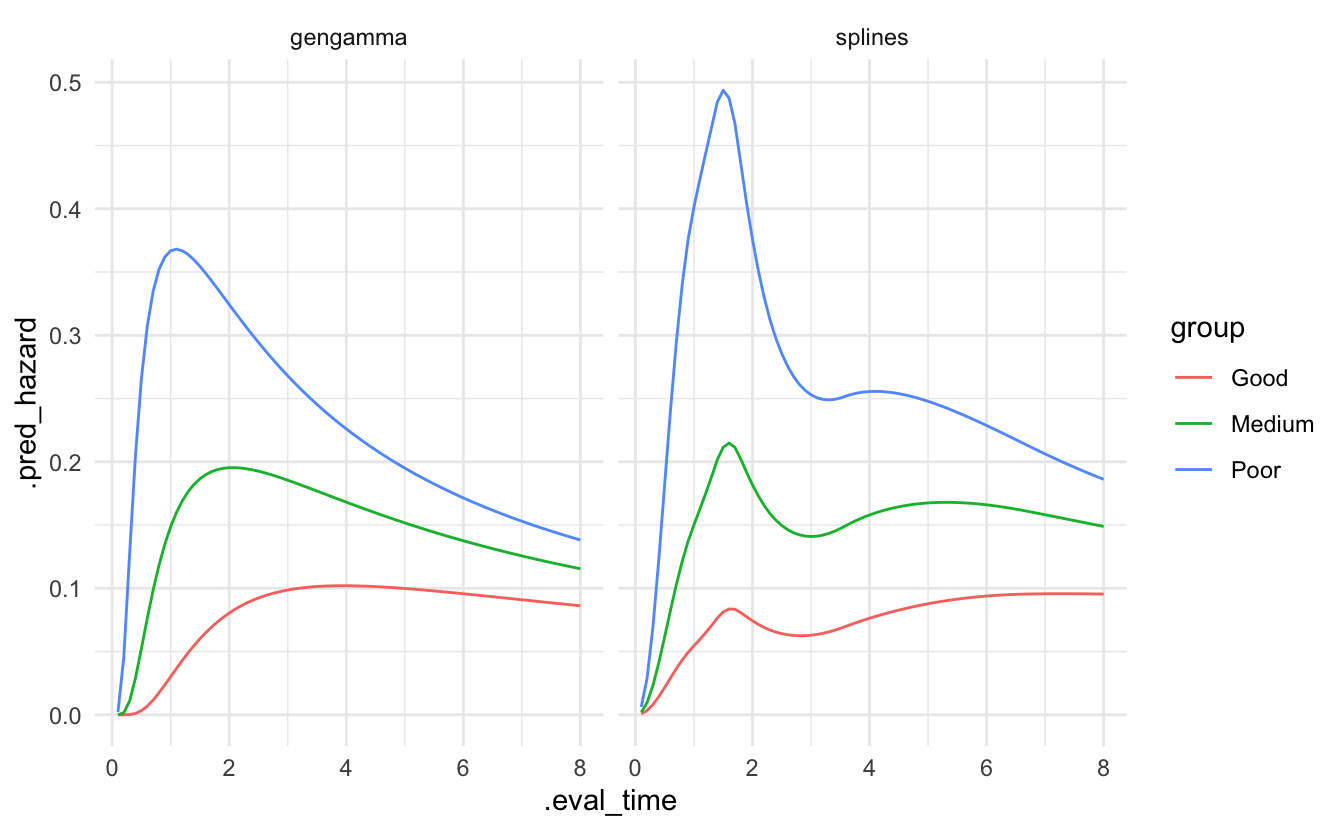
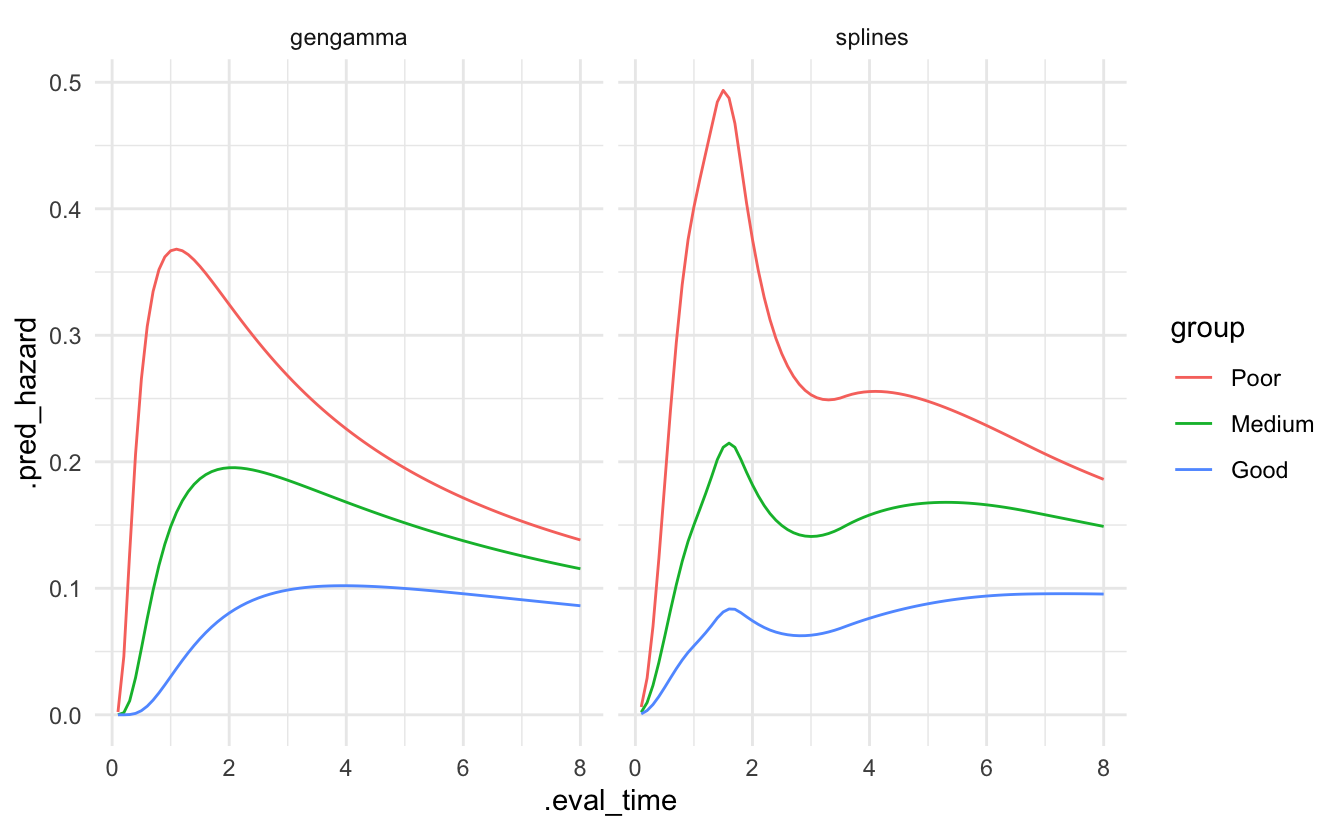
suggestions from review

diff --git a/content/blog/censored-0-2-0/index.md b/content/blog/censored-0-2-0/index.md
@@ -16,7 +16,7 @@ photo:
 # one of: "deep-dive", "learn", "package", "programming", "roundup", or "other"
 categories: [package] 
 tags: [tidymodels, parsnip, censored]
-rmd_hash: e70978e438f2e53f
+rmd_hash: c1360eb5c4d63da3
 
 ---
 
@@ -47,9 +47,9 @@ This blog post will introduce you to a new argument name, `eval_time`, and two n
 
 You can see a full list of changes in the [release notes](https://github.com/tidymodels/censored/releases/tag/v0.2.0).
 
-## Introducting `eval_time`
+## Introducing `eval_time`
 
-As we continue to add support for survival analysis across tidymodels, we have seen a need to be more explicit about which time we mean when we say "time": event time, observed time, censoring time, time at which to predict survival probability at? The last one is a particular mouthful. We now refer to this time as "evaluation time". In preparation for dynamic survival performance metrics which can be calculated at different evaluation time points, the argument to set these evaluation time points for [`predict()`](https://rdrr.io/r/stats/predict.html) is now called `eval_time` instead of just `time`.
+As we continue to add support for survival analysis across tidymodels, we have seen a need to be more explicit about which time we mean when we say "time": event time, observed time, censoring time, time at which to predict survival probability at? The last one is a particular mouthful. We now refer to this time as "evaluation time." In preparation for dynamic survival performance metrics which can be calculated at different evaluation time points, the argument to set these evaluation time points for [`predict()`](https://rdrr.io/r/stats/predict.html) is now called `eval_time` instead of just `time`.
 
 <div class="highlight">
 
@@ -92,9 +92,9 @@ censored contains engines for parametric, semi-parametric, and tree-based models
 
 ### New `"aorsf"` engine for `rand_forest()`
 
-This engine has been contributed by [Byron Jaeger](https://github.com/bcjaeger) and enables users to fit oblique random survival forests with the aorsf package. What's with the oblique you ask?
+This engine has been contributed by [Byron Jaeger](https://github.com/bcjaeger) and enables users to fit oblique random survival forests with the aorsf package. What's with the *oblique* you ask?
 
-Oblique describes how the decision trees that form the random forest make their splits at each node: If the split is based on a single predictor, the resulting tree is called *axis-based* because the split is perpendicular to the axis of the predictor. If the split is based on a linear combination of predictors, there is a lot more flexibility in how the data is split: the split does not need to be perpendicular to any of the predictor axes. Such trees are called *oblique*.
+Oblique describes how the decision trees that form the random forest make their splits at each node. If the split is based on a single predictor, the resulting tree is called *axis-based* because the split is perpendicular to the axis of the predictor. If the split is based on a linear combination of predictors, there is a lot more flexibility in how the data is split: the split does not need to be perpendicular to any of the predictor axes. Such trees are called *oblique*.
 
 The documentation for the [aorsf](https://docs.ropensci.org/aorsf) package includes a nice illustration of this with the splits for an axis-based tree on the left and an oblique tree on the right:
 
@@ -116,8 +116,8 @@ To fit such a model, set the engine for a random forest to `"aorsf"`:
 <span><span class='c'>#&gt; <span style='color: #555555;'># A tibble: 2 × 2</span></span></span>
 <span><span class='c'>#&gt;   .eval_time .pred_survival</span></span>
 <span><span class='c'>#&gt;        <span style='color: #555555; font-style: italic;'>&lt;dbl&gt;</span>          <span style='color: #555555; font-style: italic;'>&lt;dbl&gt;</span></span></span>
-<span><span class='c'>#&gt; <span style='color: #555555;'>1</span>        100          0.946</span></span>
-<span><span class='c'>#&gt; <span style='color: #555555;'>2</span>        500          0.339</span></span>
+<span><span class='c'>#&gt; <span style='color: #555555;'>1</span>        100          0.928</span></span>
+<span><span class='c'>#&gt; <span style='color: #555555;'>2</span>        500          0.368</span></span>
 <span></span></code></pre>
 
 </div>
@@ -150,7 +150,7 @@ For comparison, we also fit a parametric model without splines.
 
 </div>
 
-We can predict the hazard for the three levels of the prognostic `group`
+We can predict the hazard for the three levels of the prognostic `group`.
 
 <div class="highlight">
 
@@ -168,17 +168,18 @@ We can predict the hazard for the three levels of the prognostic `group`
 
 </div>
 
-and plot the predictions of both models which show a lot more flexibility for the splines model.
+Plotting the predictions of both models shows a lot more flexibility in the splines model.
 
 <div class="highlight">
 
 <pre class='chroma'><code class='language-r' data-lang='r'><span><span class='nf'>bind_rows</span><span class='o'>(</span><span class='nv'>pred_splines</span>, <span class='nv'>pred_gengamma</span><span class='o'>)</span> <span class='o'><a href='https://magrittr.tidyverse.org/reference/pipe.html'>%&gt;%</a></span> </span>
+<span>  <span class='nf'>mutate</span><span class='o'>(</span>group <span class='o'>=</span> <span class='nf'><a href='https://rdrr.io/r/base/factor.html'>factor</a></span><span class='o'>(</span><span class='nv'>group</span>, levels <span class='o'>=</span> <span class='nf'><a href='https://rdrr.io/r/base/c.html'>c</a></span><span class='o'>(</span><span class='s'>"Poor"</span>,<span class='s'>"Medium"</span>,<span class='s'>"Good"</span><span class='o'>)</span><span class='o'>)</span><span class='o'>)</span> <span class='o'>|&gt;</span> </span>
 <span>  <span class='nf'>tidyr</span><span class='nf'>::</span><span class='nf'><a href='https://tidyr.tidyverse.org/reference/unnest.html'>unnest</a></span><span class='o'>(</span>cols <span class='o'>=</span> <span class='nv'>.pred</span><span class='o'>)</span> <span class='o'>|&gt;</span> </span>
 <span>  <span class='nf'>ggplot</span><span class='o'>(</span><span class='o'>)</span> <span class='o'>+</span></span>
 <span>  <span class='nf'>geom_line</span><span class='o'>(</span><span class='nf'>aes</span><span class='o'>(</span>x <span class='o'>=</span> <span class='nv'>.eval_time</span>, y <span class='o'>=</span> <span class='nv'>.pred_hazard</span>, group <span class='o'>=</span> <span class='nv'>group</span>, col <span class='o'>=</span> <span class='nv'>group</span><span class='o'>)</span><span class='o'>)</span> <span class='o'>+</span></span>
 <span>  <span class='nf'>facet_wrap</span><span class='o'>(</span><span class='o'>~</span> <span class='nv'>model</span><span class='o'>)</span></span>
 </code></pre>
-<img src="figs/unnamed-chunk-8-1.png" width="700px" style="display: block; margin: auto;" />
+<img src="figs/unnamed-chunk-8-1.png" alt="Two panels side by side, showing the predicted hazard curves for the three prognostic groups from the parametric model on the left and the spline model on the right. The curves for the spline model show more wiggliness, having more flexibility to adapt to the data than the curves from the parametric model which have to follow a generalized gamma distribution." width="700px" style="display: block; margin: auto;" />
 
 </div>
 
